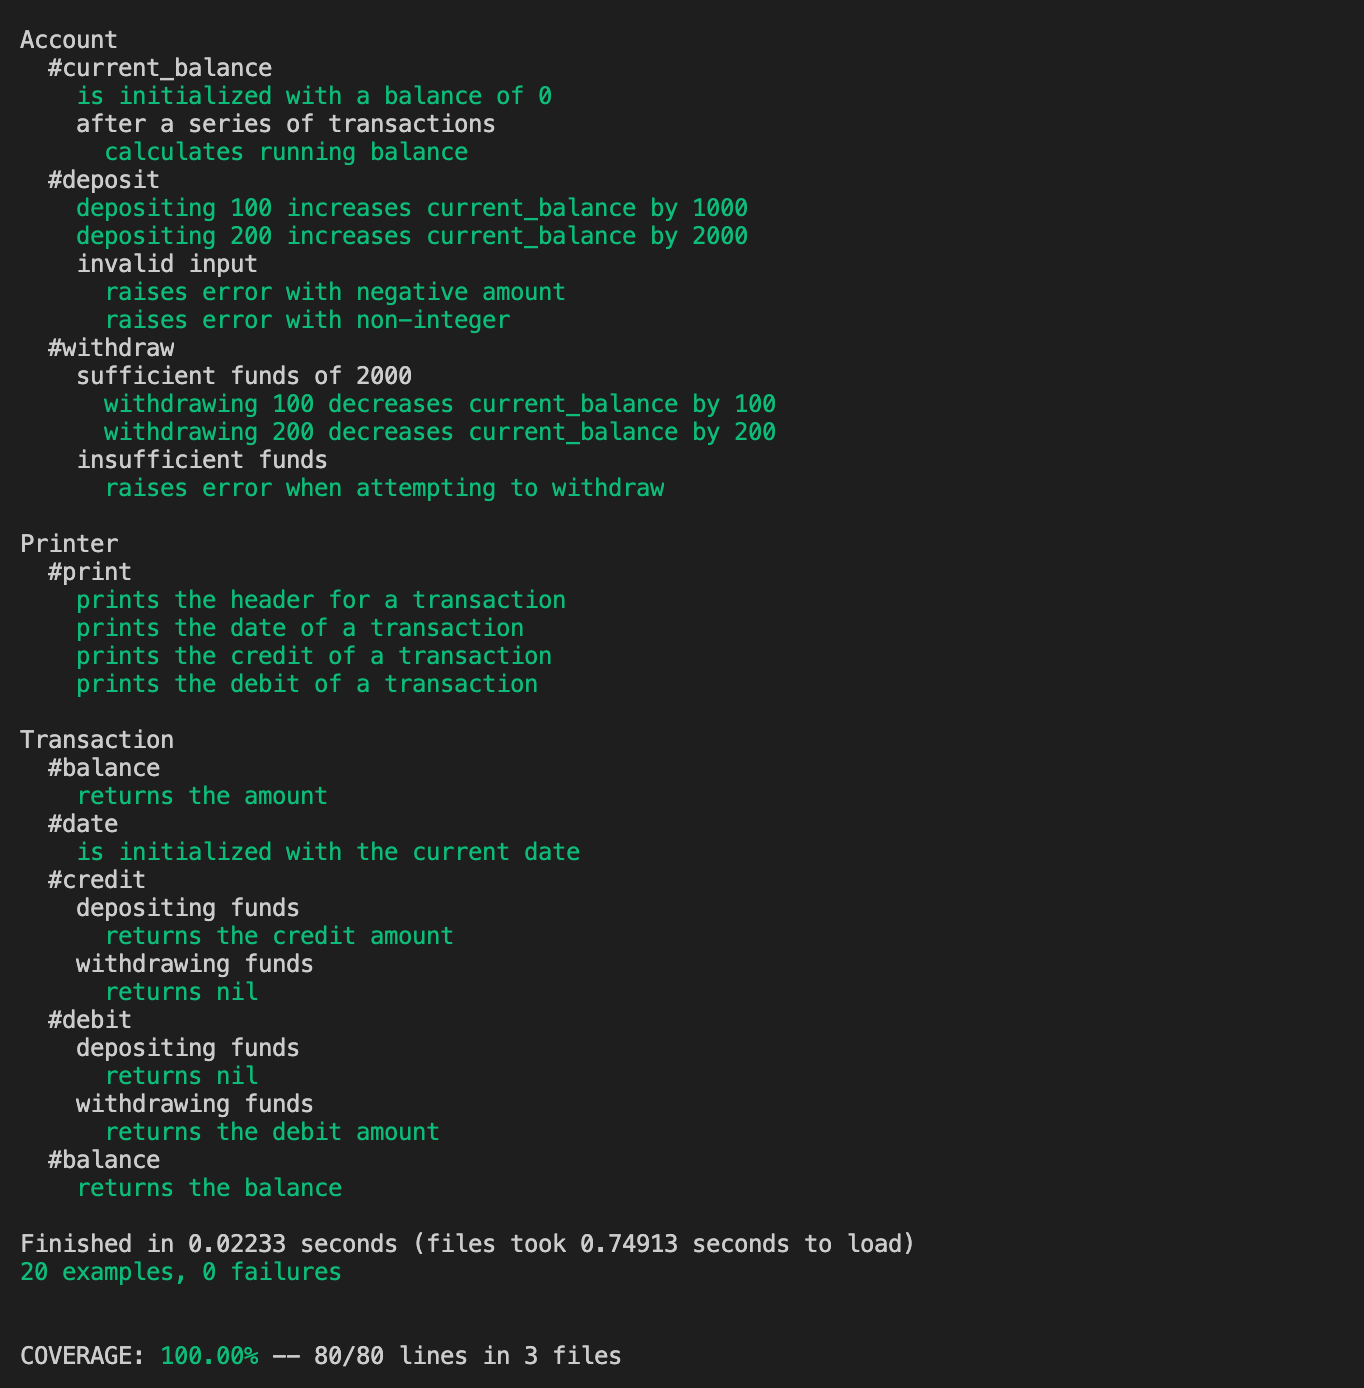
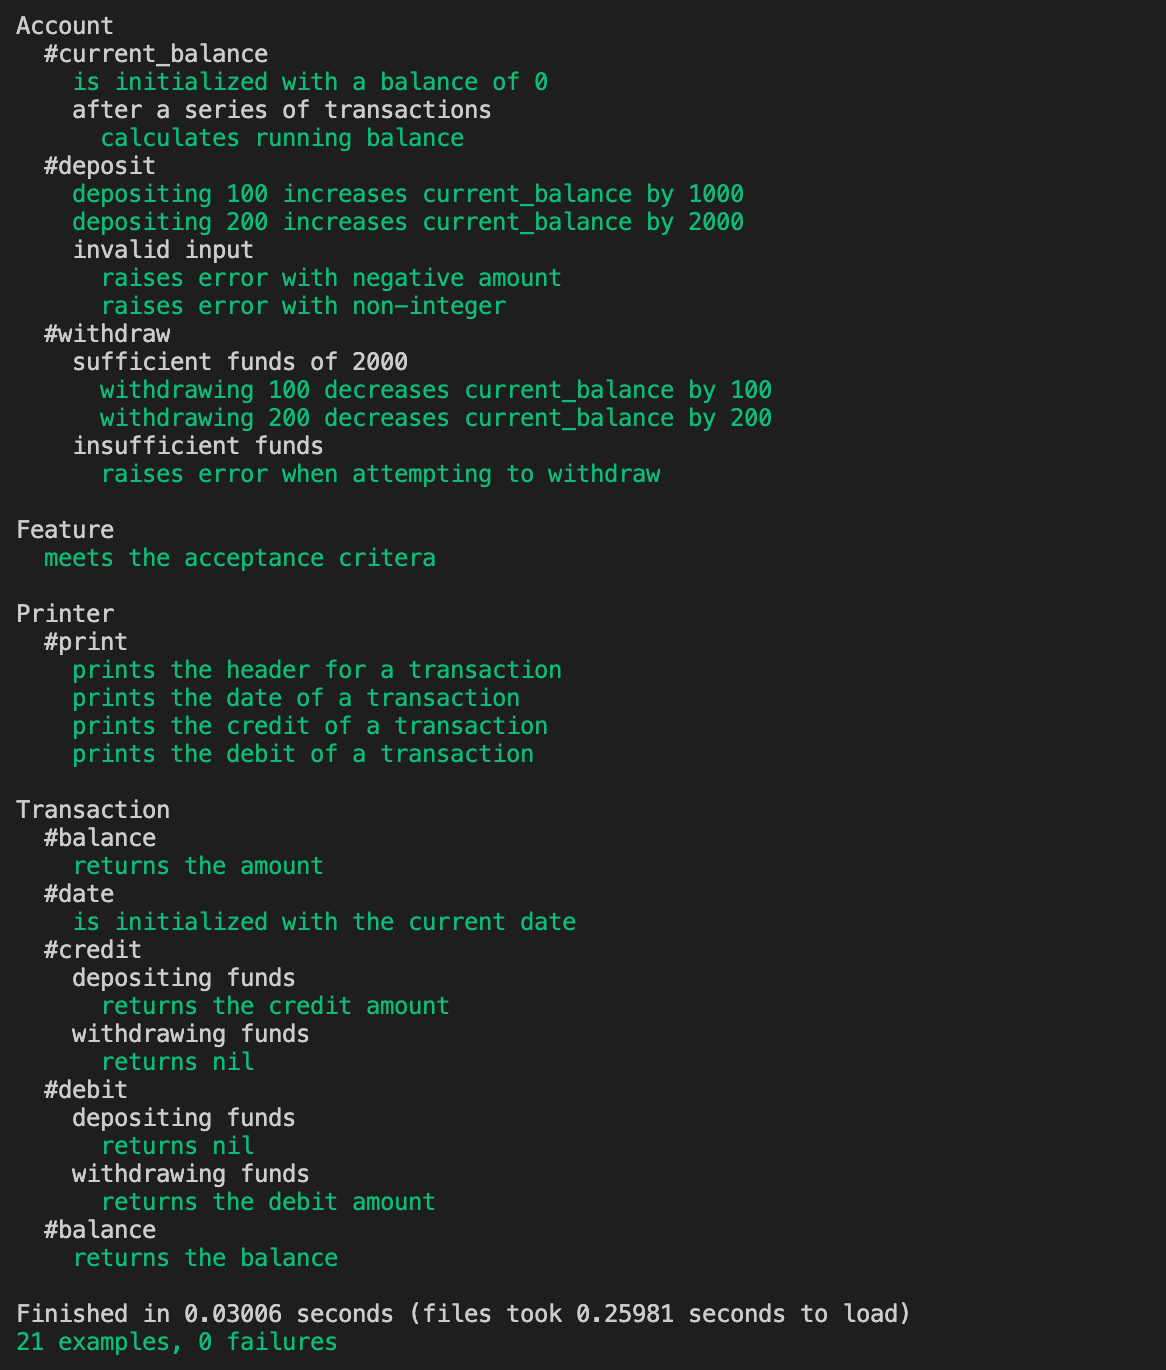
Added feature test to meet acceptance criteria

diff --git a/spec/feature_spec.rb b/spec/feature_spec.rb
@@ -1,0 +1,25 @@
+RSpec.describe 'Feature' do
+  let(:subject) { Account.new }
+  let(:table) { [
+    "date || credit || debit || balance\n",
+    "14/01/2012 ||  || £500.00 || £2500.00\n",
+    "13/01/2012 || £2000.00 ||  || £3000.00\n",
+    "10/01/2012 || £1000.00 ||  || £1000.00\n",
+  ].join }
+
+  before do
+    time_one = Time.new(2012, 1, 10)
+    time_two = Time.new(2012, 1, 13)
+    time_three = Time.new(2012, 1, 14)
+
+    allow(Time).to receive(:now).and_return(time_one, time_two, time_three)
+  end
+
+  it 'meets the acceptance critera' do
+    subject.deposit(1000)
+    subject.deposit(2000)
+    subject.withdraw(500)
+
+    expect { subject.print_statement }.to output(table).to_stdout
+  end
+end

diff --git a/README.md b/README.md
@@ -125,7 +125,7 @@ date  || credit || debit || balance
 
 - The `Printer` class formats inputted data into a string output. The `print` method iterates through each transaction record and exposes the `create_row` private method in order to format each transaction into a table row. `create_row` utilises `to_pounds`, derived from the `Conversion` module, to convert integers to a '£0.00' format.
 
-### Modules
+### Modules
 
 Modules were used for raising errors, `Exceptions`, and converting integers to currency, `Conversions`.
 
@@ -175,6 +175,7 @@ Private methods are utilised to maintain SRP and expose only what is required.
 ## Evaluation
 
 <strong>Struct / OpenStruct</strong>
+
 ![Struct](./images/struct.png)
 
 I would consider converting my `Transaction` class to a Struct/OpenStruct. A `Sruct` is a dummy data container. Unlike an object, it’s used for bundling and serving a set of informations without any logic.
